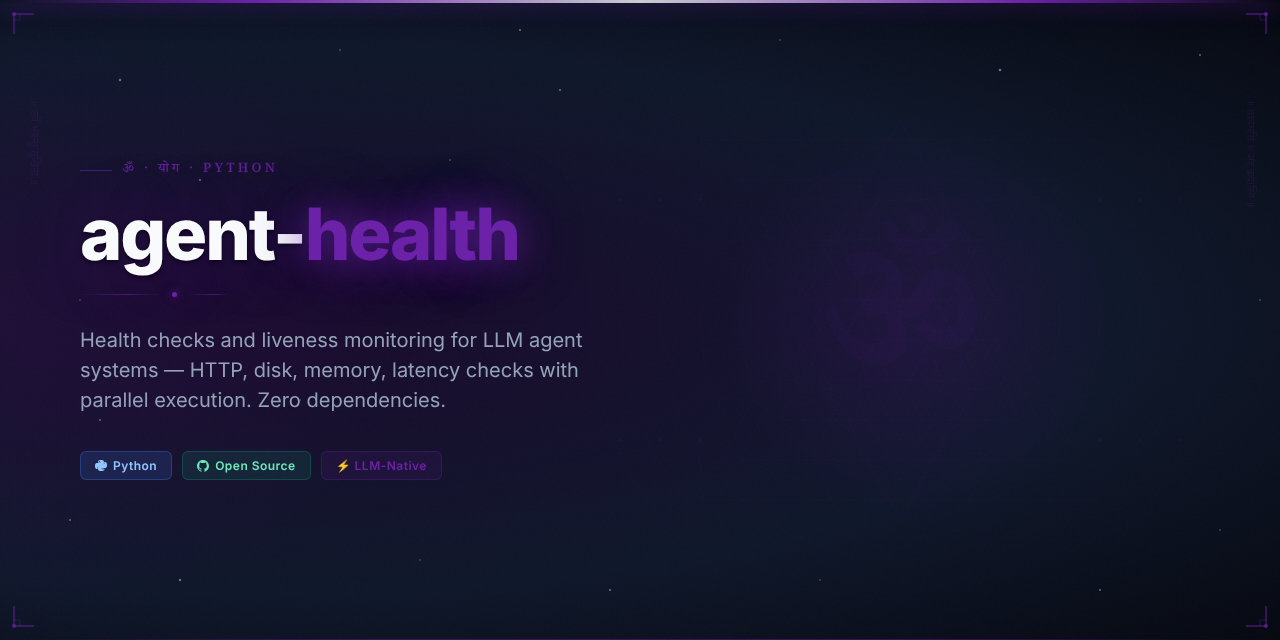
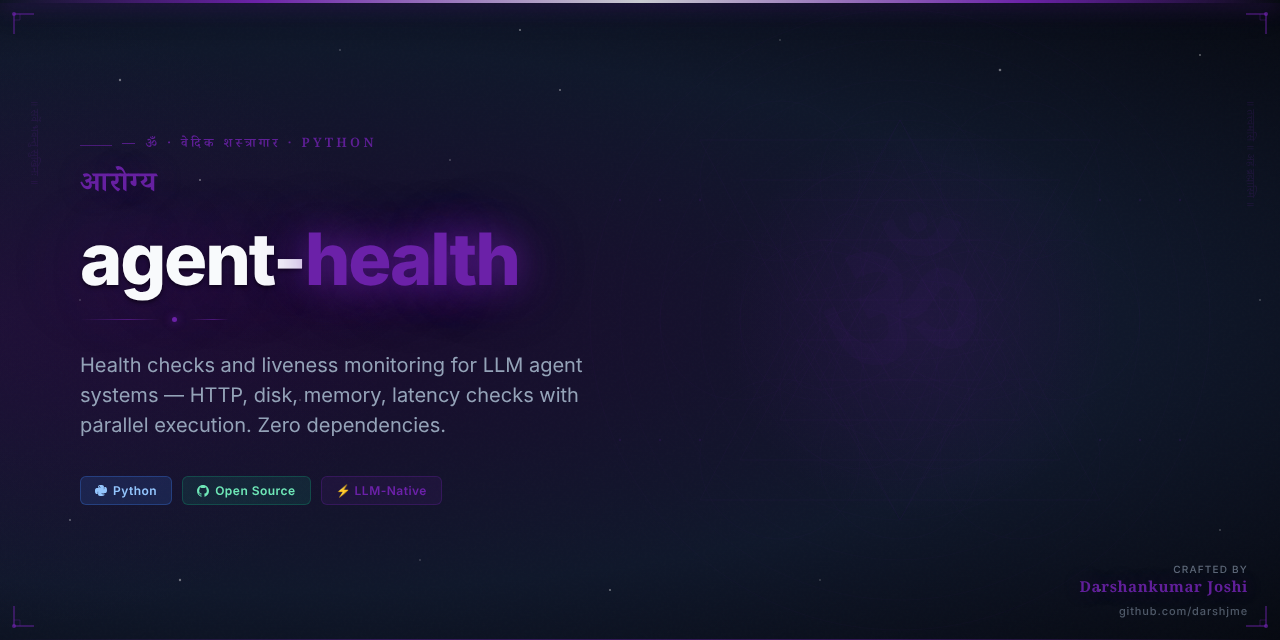
feat: add Vedic Arsenal hero image and updated README
Part of darshjme/arsenal — 100 production-grade Python libraries for LLM agents.
Vedic branding: ancient philosophy meets modern AI engineering.

diff --git a/README.md b/README.md
@@ -1,10 +1,12 @@
 <div align="center">
 
-<img src="assets/agent-health-hero.png" alt="agent-health — Vedic Arsenal" width="100%" />
+<img src="assets/agent-health-hero.png" alt="agent-health — Vedic Arsenal by Darshankumar Joshi" width="100%" />
 
 # 🔮 agent-health
 
-### *आरोग्य* — Arogya — the Vedic science of system wellness
+<h3><em>आरोग्य</em></h3>
+
+> *Arogya — the Vedic science of system wellness*
 
 **Health checks and liveness monitoring for LLM agent systems — HTTP, disk, memory, latency checks with parallel execution. Zero dependencies.**
 
@@ -39,6 +41,20 @@ Or clone directly:
 git clone https://github.com/darshjme/agent-health.git
 cd agent-health
 pip install -e .
+```
+
+## How It Works
+
+```mermaid
+flowchart TD
+    A[agent-health] --> B[HTTP Check]
+    A --> C[Disk Check]
+    A --> D[Memory Check]
+    A --> E[Latency Check]
+    B & C & D & E --> F{All Healthy?}
+    F -- Yes --> G[HEALTHY]
+    F -- No --> H[DEGRADED / DOWN]
+    style A fill:#6b21a8,color:#fff
 ```
 
 ## Quick Start
@@ -90,7 +106,7 @@ MIT — use freely, build freely.
 
 <div align="center">
 
-**Built with 🔮 by [Darshankumar Joshi](https://github.com/darshjme)**
+**Built with 🔮 by [Darshankumar Joshi](https://github.com/darshjme)** · [@thedarshanjoshi](https://twitter.com/thedarshanjoshi)
 
 *"कर्मण्येवाधिकारस्ते मा फलेषु कदाचन"*
 *Your right is to action alone, never to the fruits thereof.*
